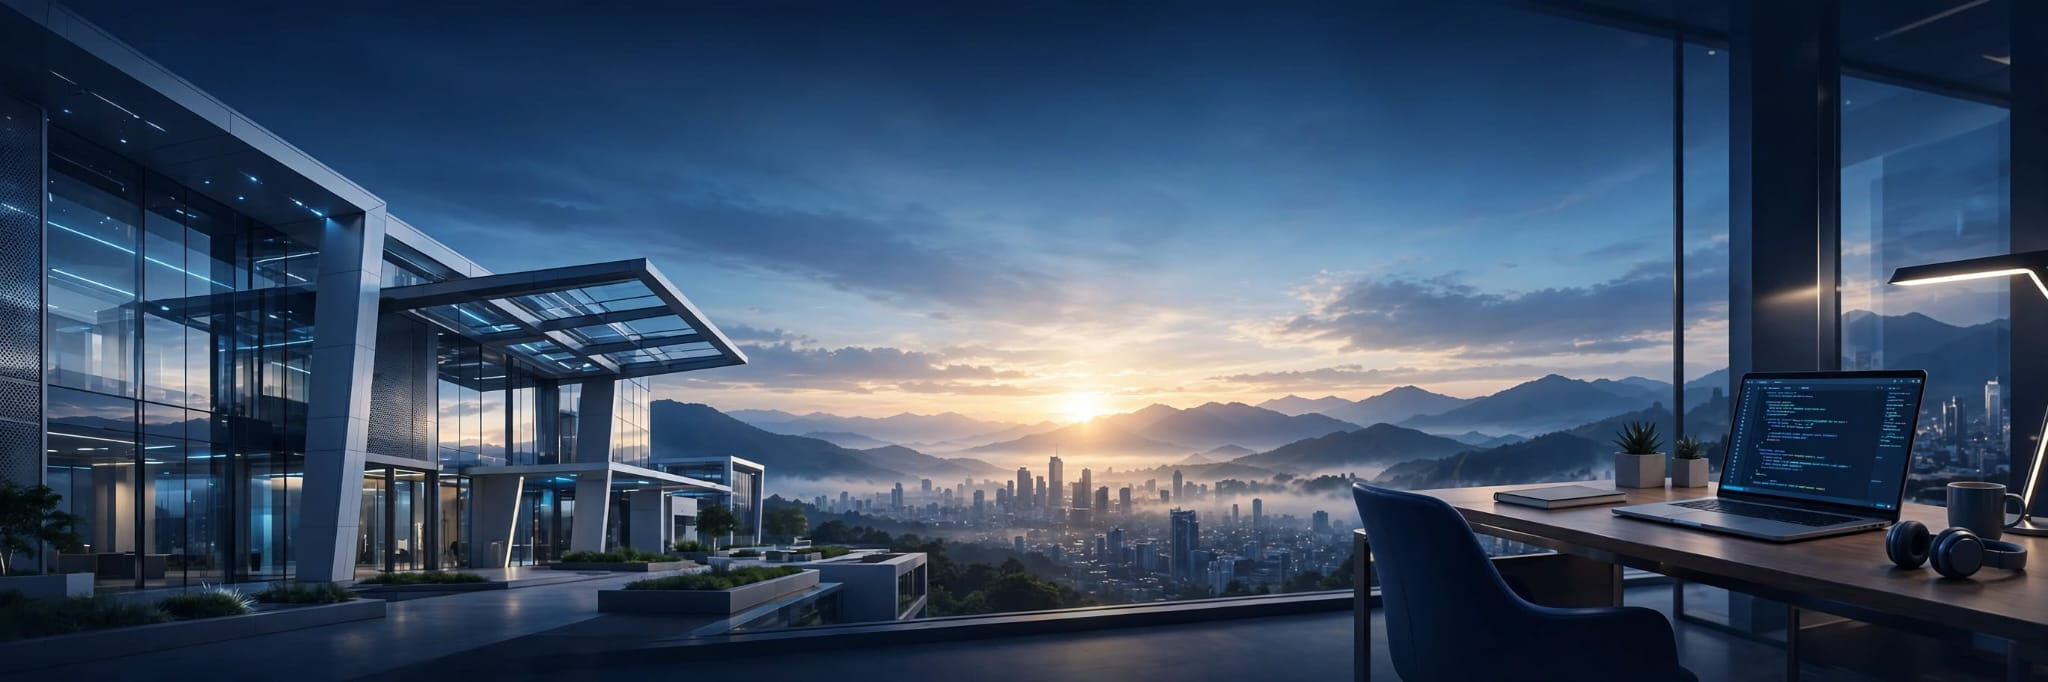
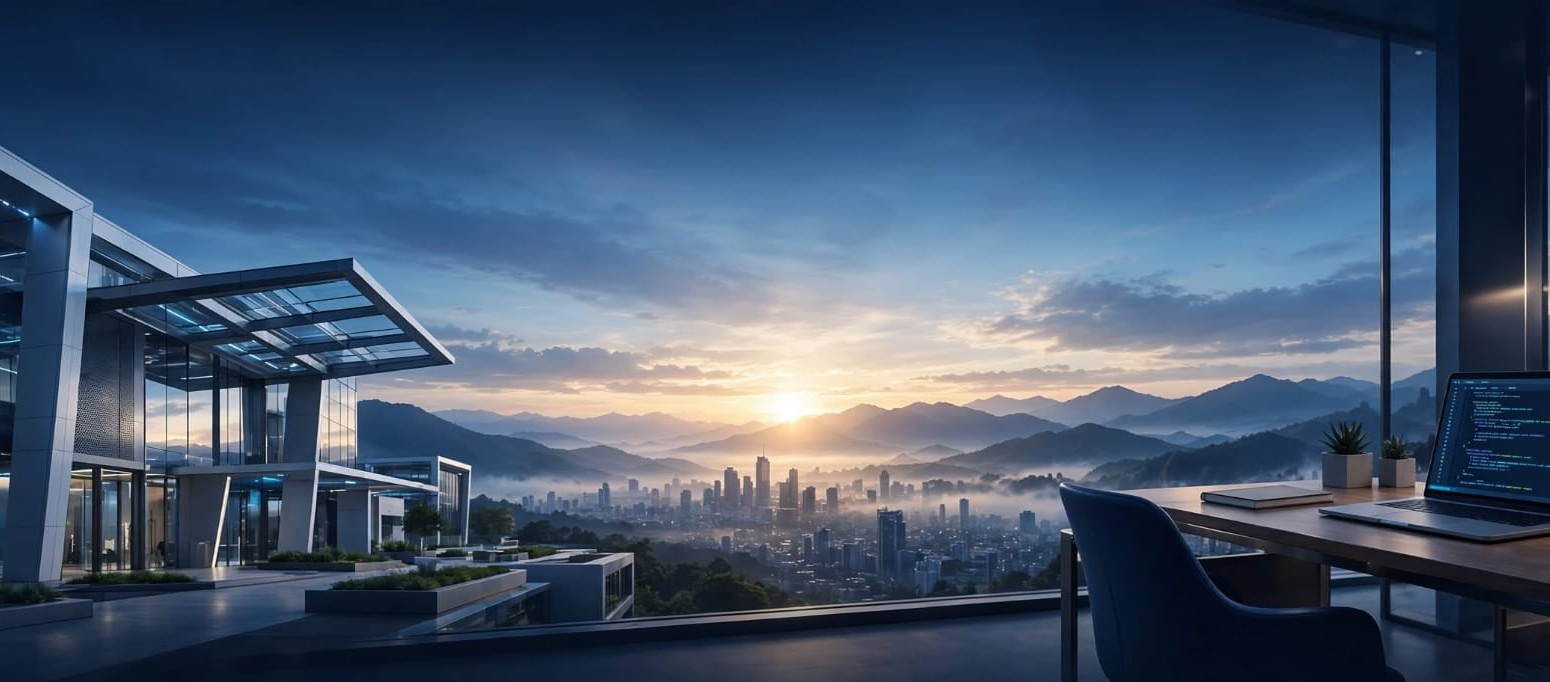
Add Telegram bot registration notifications

diff --git a/includes/functions.php b/includes/functions.php
@@ -52,3 +52,31 @@ function getYouTubeEmbedUrl($url) {
 
     return $url;
 }
+
+function sendTelegramNotification($message) {
+    $botToken = defined('TELEGRAM_BOT_TOKEN') ? TELEGRAM_BOT_TOKEN : '';
+    $chatId = defined('TELEGRAM_CHAT_ID') ? TELEGRAM_CHAT_ID : '';
+
+    if (empty($botToken) || empty($chatId)) {
+        return false;
+    }
+
+    $url = "https://api.telegram.org/bot{$botToken}/sendMessage";
+    $data = [
+        'chat_id' => $chatId,
+        'text' => $message,
+        'parse_mode' => 'HTML'
+    ];
+
+    $options = [
+        'http' => [
+            'header'  => "Content-Type: application/x-www-form-urlencoded\r\n",
+            'method'  => 'POST',
+            'content' => http_build_query($data),
+            'timeout' => 5
+        ]
+    ];
+
+    $context = stream_context_create($options);
+    @file_get_contents($url, false, $context);
+}

diff --git a/auth/register.php b/auth/register.php
@@ -67,6 +67,14 @@ if ($_SERVER['REQUEST_METHOD'] === 'POST') {
 
                 $userId = $db->lastInsertId();
 
+                // Send Telegram Notification
+                $msg = "<b>Yeni Öğrenci Kaydı!</b>\n\n";
+                $msg .= "👤 Ad Soyad: " . htmlspecialchars($fullName) . "\n";
+                $msg .= "✉ E-Posta: " . htmlspecialchars($email) . "\n";
+                $msg .= "📞 Telefon: " . htmlspecialchars($phone ?: '-') . "\n";
+                $msg .= "🕒 Tarih: " . date('d.m.Y H:i');
+                sendTelegramNotification($msg);
+
                 // Auto login
                 session_regenerate_id(true);
                 $_SESSION['user_id'] = $userId;

diff --git a/auth/google_callback.php b/auth/google_callback.php
@@ -28,6 +28,13 @@ if ($_SERVER['REQUEST_METHOD'] === 'POST') {
                 ]);
                 $userId = $db->lastInsertId();
 
+                // Send Telegram Notification
+                $msg = "<b>Yeni Öğrenci Kaydı (Google ile)!</b>\n\n";
+                $msg .= "👤 Ad Soyad: " . htmlspecialchars($name) . "\n";
+                $msg .= "✉ E-Posta: " . htmlspecialchars($email) . "\n";
+                $msg .= "🕒 Tarih: " . date('d.m.Y H:i');
+                sendTelegramNotification($msg);
+
                 $user = [
                     'id' => $userId,
                     'name' => $name,

diff --git a/config/config.php b/config/config.php
@@ -53,6 +53,10 @@ if ($isLocal) {
 // Bakım Modu (true yapıldığında site ziyaretçilere kapatılır, sadece Adminler giriş yapıp erişebilir)
 define('MAINTENANCE_MODE', false);
 
+// Telegram Bot Bildirim Ayarları
+define('TELEGRAM_BOT_TOKEN', ''); // Telegram Bot Token değerinizi buraya yazın
+define('TELEGRAM_CHAT_ID', '');   // Telegram Chat ID değerinizi buraya yazın
+
 // Bakım Modu Kontrolü
 if (defined('MAINTENANCE_MODE') && MAINTENANCE_MODE) {
     $isAdmin = isset($_SESSION['user_role']) && $_SESSION['user_role'] === 'admin';
